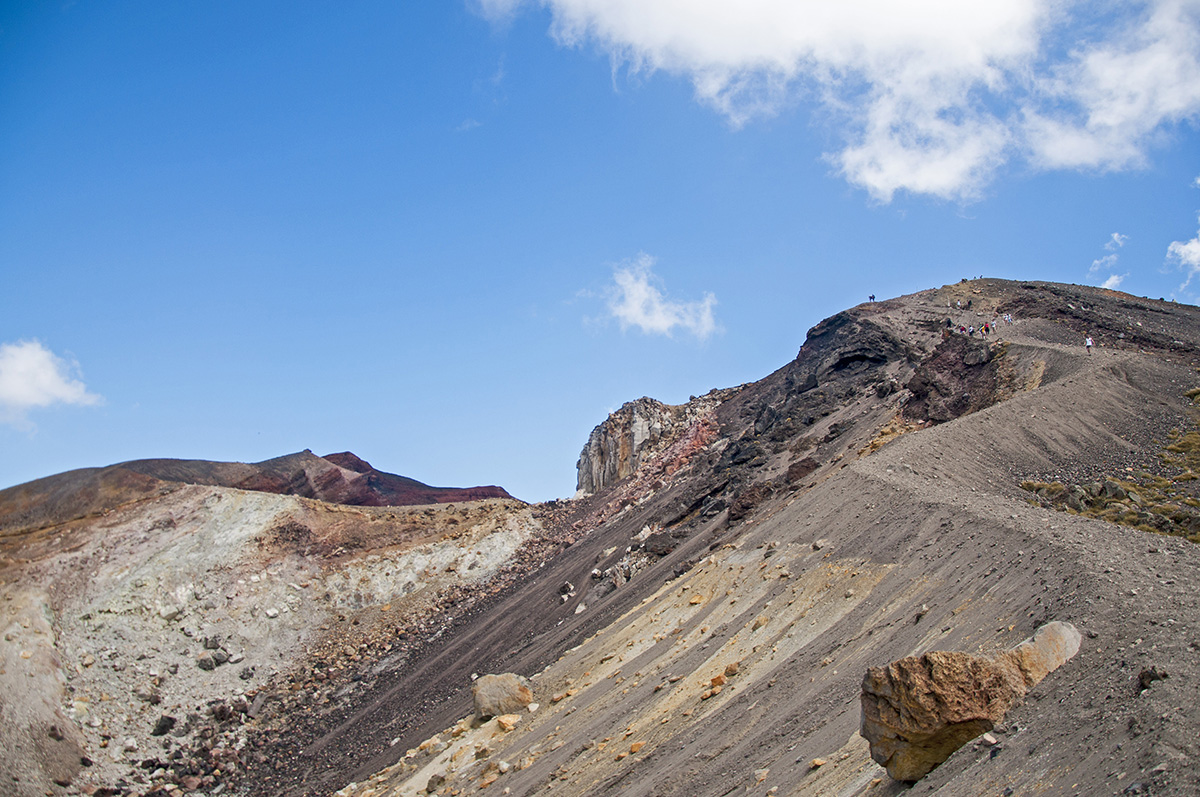
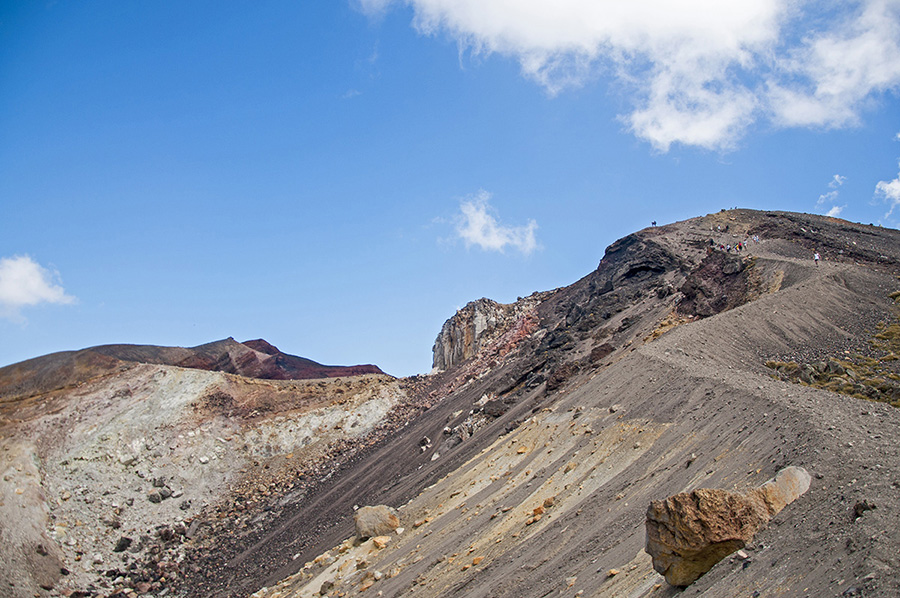
resolu_imagens

diff --git a/paginas/fotografia.html b/paginas/fotografia.html
@@ -104,7 +104,7 @@
         <div class="container-galeria w-1 h-3">
             <div class="galeria-item">
                 <div class="img">
-                    <a href="../imagens/fotografia/argentina.jpg" target="_parent"><img src="../imagens/fotografia/argentina.jpg" alt="Argentina"></a>
+                    <a href="../imagens/fotografia/argentinasite.jpg" target="_parent"><img src="../imagens/fotografia/argentinasite.jpg" alt="Argentina"></a>
                 </div>
                 <div class="text">Argentina</div> 
             </div>
